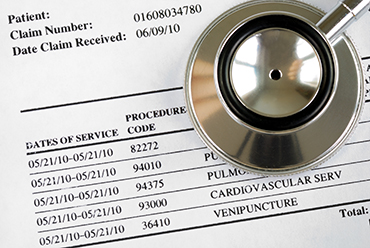
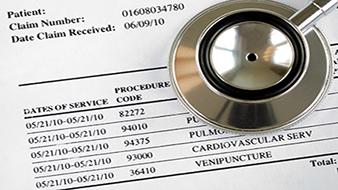
Adjust sizing of index images in three-column layout

diff --git a/index.html b/index.html
@@ -34,9 +34,9 @@
 		</div><!--/end of primary column-->
 		
 		<div class="secondary column">
-            <img class="column-img" src="img/support-background-sc.jpg" alt="data server banks with security">
+            <img class="column-img" src="img/index-hosting.jpg" alt="data server banks with security">
 			<h2>Server Hosting</h2>
-            <p>Eliminate the frustration and cost of server and network maintenance. Server hosting and data application hosting is the answer you've been looking for. Access your important data anytime, anywhere.</p>
+            <p>Eliminate the frustration and cost of server maintenance. Server/application hosting is the answer you've been looking for. Access your important data anytime, anywhere.</p>
             <div class="button-align"><a class="button" href="data-hosting.html">Details</a></div>
         </div><!--/end of secondary column-->
 		

diff --git a/data-hosting.html b/data-hosting.html
@@ -65,7 +65,7 @@
 					<hr>
 					<li>Print from any location.</li>
 					<hr>
-					<li>We pride ourselves on dealing relationally with our customers. We will take ownership of any support issue you would experience, care and resolve it to completion.</li>
+					<li>We pride ourselves on dealing relationally with our customers. We will take ownership of any support issue you would experience and resolve it to completion.</li>
 					<hr>
 					<li>Security, 128 bit Encryption and Firewalls.</li>
 					<hr>

diff --git a/css/main.css b/css/main.css
@@ -216,6 +216,8 @@ img {
 	margin-bottom: 0;
 }
 .column-img {
+	display: block;
+    margin: auto;
 	border-radius: 5px;
 }
 
@@ -443,9 +445,6 @@ hr {
 		height: 430px;
 		margin-bottom: 10px;
 	}
-
-
-
 	
 @media (min-width: 1025px) {
 	.header,
